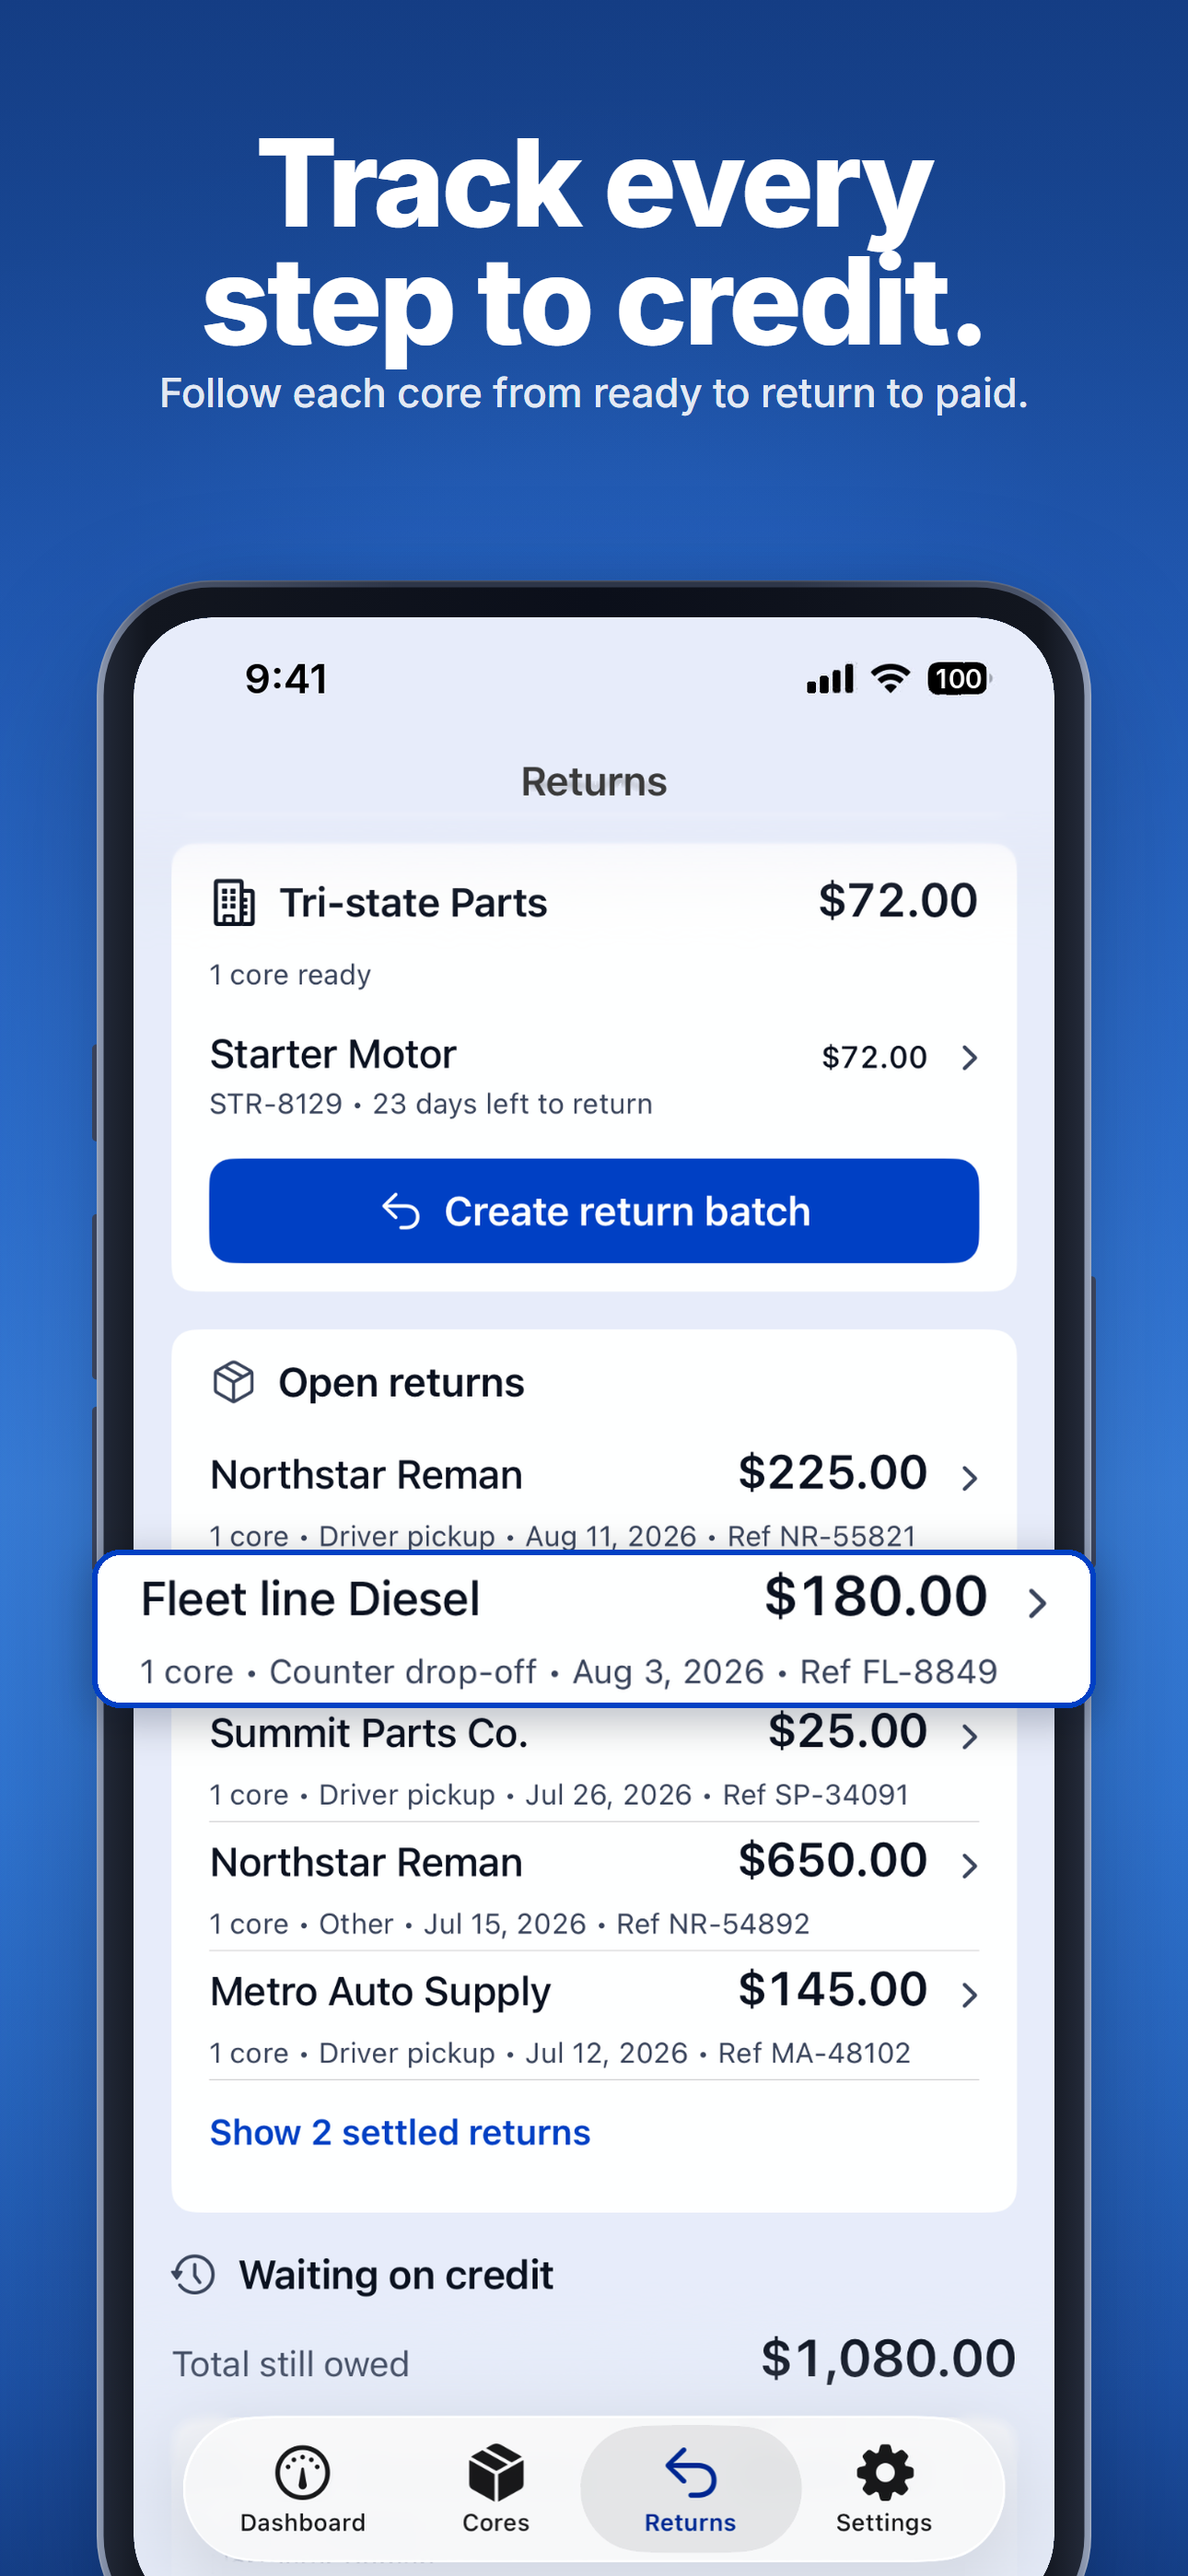
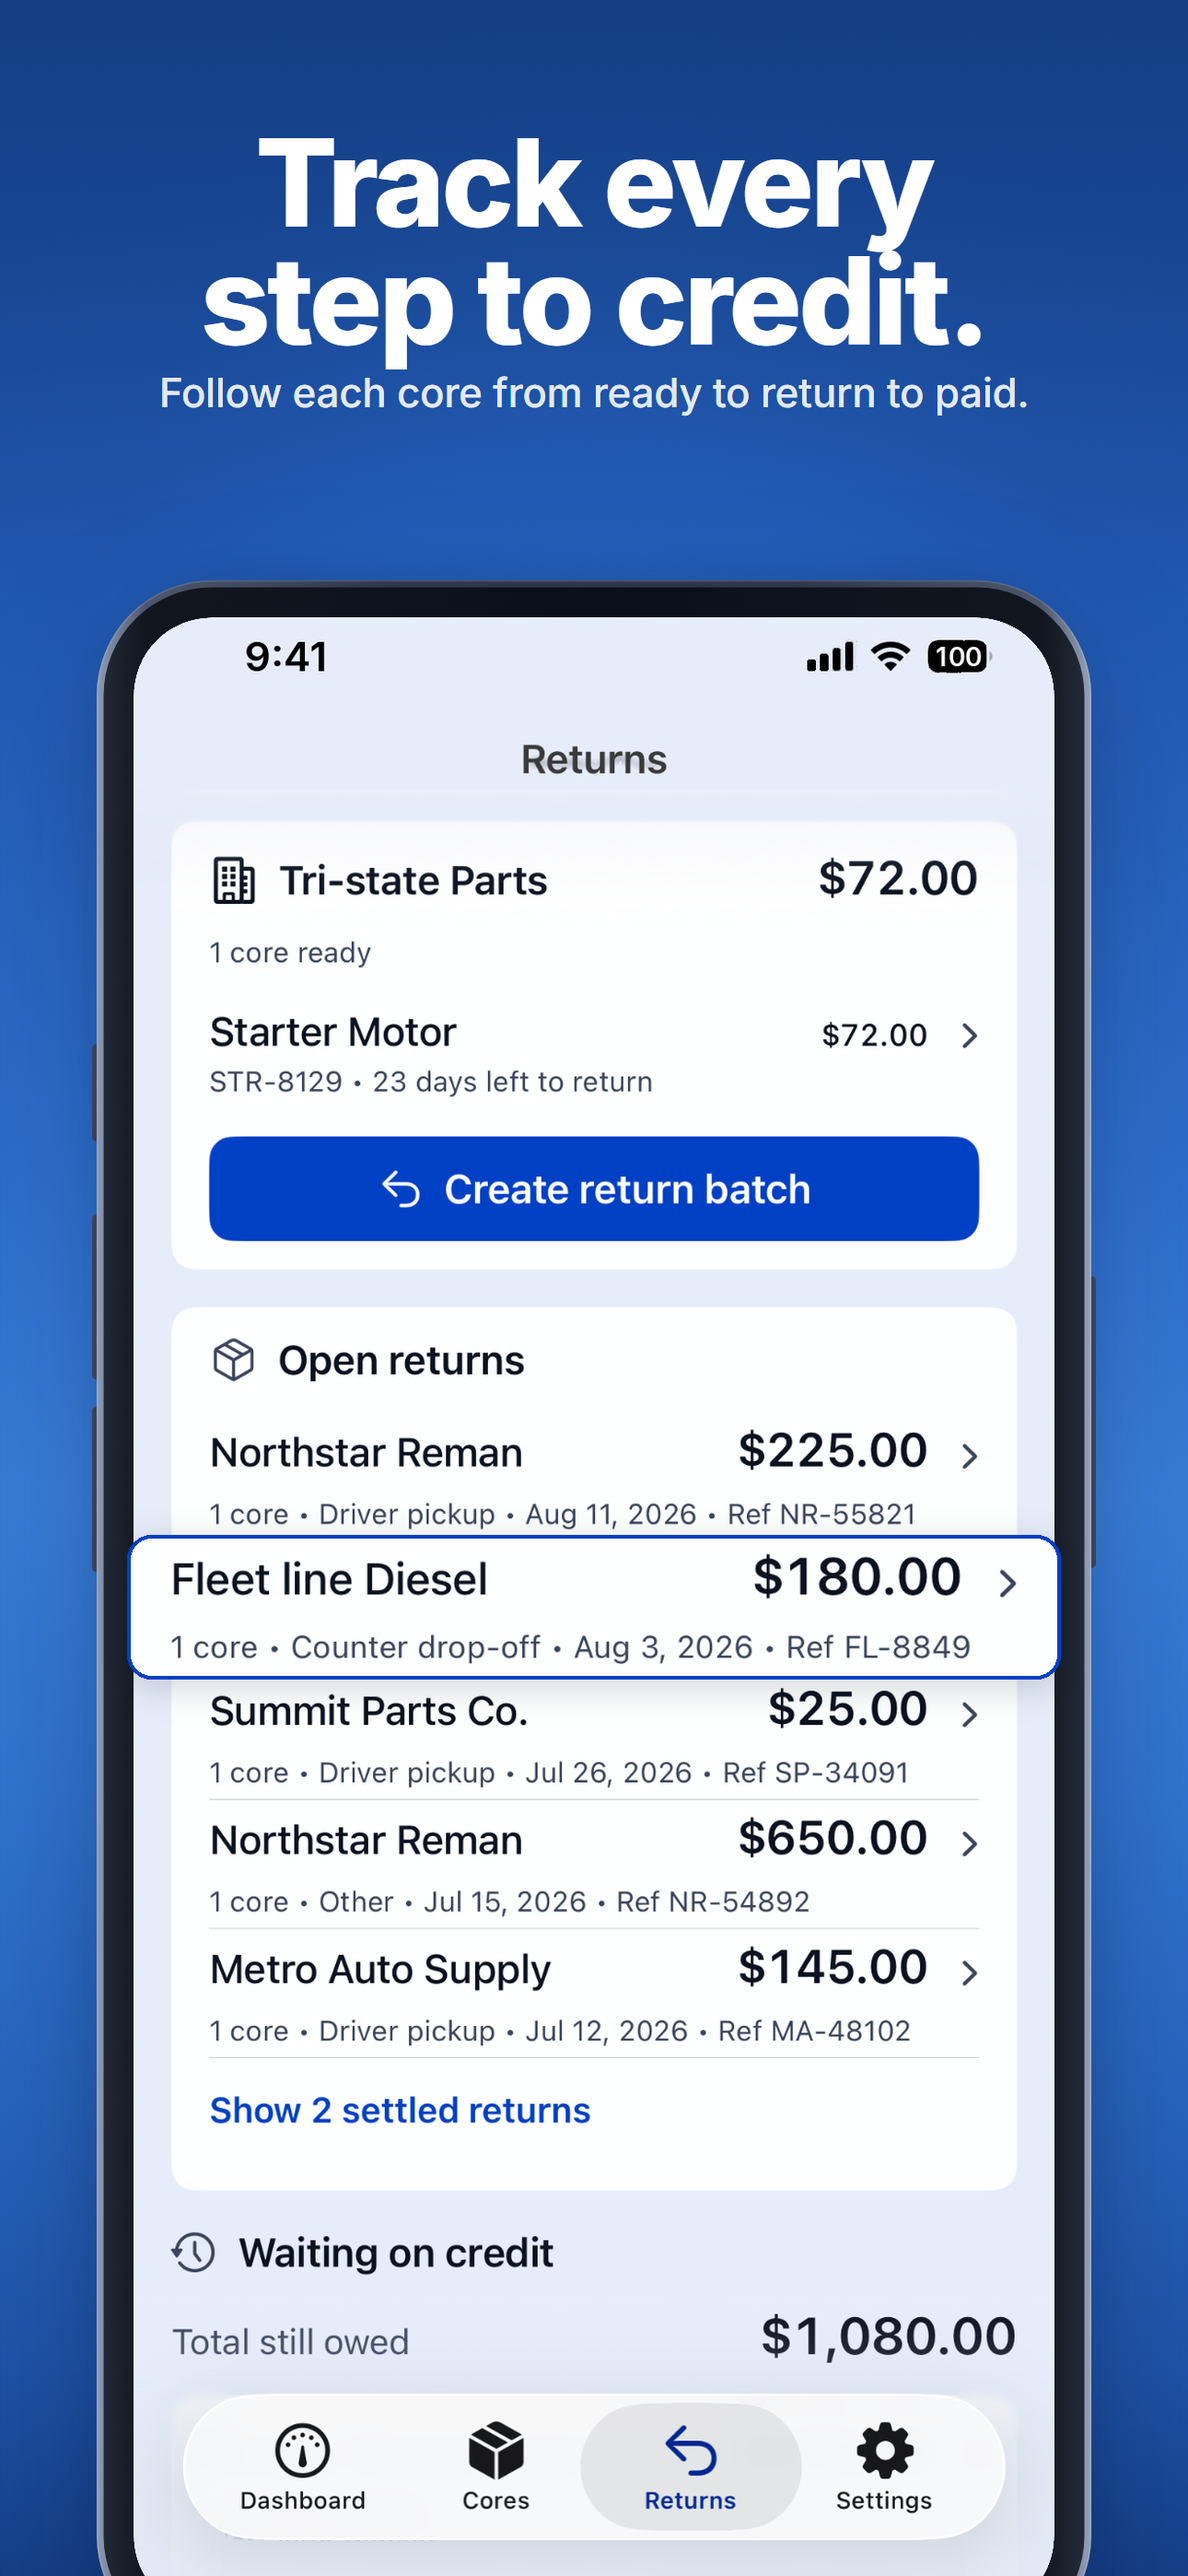
Polish Image 4's callout and lower section
The callout was reading as an oversized annotation. It loses 7 % of its
width, its rule drops from 6 px to 4, its radius from 30 to 26 and its
shadow from 0.30 to 0.18 at a shorter offset -- enough to lift it off the
screen without announcing itself. It still magnifies the same row by the
same crop, ×1.10 against the screen behind it, and now clears the ink of
the rows either side by 7 px and 9 px rather than sitting flush with them.

The lower section was crammed against the canvas edge, the tab bar with
16 px of screen under it. compose can now spend part of the crop a template
takes at the far side on the near side instead; Image 4 spends 24 px of it,
which lifts Waiting on credit and the $1,080.00 total away from the edge and
leaves 40 px of the screen's own background beneath the bar. The 23 capture
rows that go are a single flat colour, so nothing but status-bar margin is
spent, and the status bar still sits well clear of the screen's corners.

Both templates' layers are byte-identical to the composite outside the
screen and the callout's shadow, the capture is unchanged from the last
build, and Image 3 rebuilds byte-for-byte identical.

Claude-Session: https://claude.ai/code/session_01BtS38QkKpVhKQaJHaD4ro7

diff --git a/marketing/appstore/tools/compose.py b/marketing/appstore/tools/compose.py
@@ -48,7 +48,7 @@ def aperture(overlay_png, inside=(1000, 1400)):
             int(xs.max() - xs.min() + 1), int(ys.max() - ys.min() + 1), mask)
 
 
-def compose(background_png, overlay_png, screenshot_png, out_png):
+def compose(background_png, overlay_png, screenshot_png, out_png, shift_up=0):
     bg = Image.open(background_png).convert("RGBA")
     ov = Image.open(overlay_png).convert("RGBA")
     if bg.size != ov.size:
@@ -69,12 +69,19 @@ def compose(background_png, overlay_png, screenshot_png, out_png):
 
     canvas = np.array(bg)
     px = np.array(scaled)
+    # `shift_up` spends part of the crop the template already takes at the far
+    # side on the near side instead, moving the screen's content up inside the
+    # phone. It can never exceed the slack, so the aperture stays covered.
+    slack = scaled_h - height
+    if not 0 <= shift_up <= max(slack, 0):
+        raise ValueError(f"shift_up {shift_up} outside the crop's slack of {slack}")
     take_w = min(scaled_w, canvas.shape[1] - left, visible_w)
-    take_h = min(scaled_h, height)
+    take_h = min(scaled_h - shift_up, height)
 
     sub = canvas[top:top + take_h, left:left + take_w]
     sub_mask = mask[top:top + take_h, left:left + take_w]
-    sub[..., :3] = np.where(sub_mask[..., None], px[:take_h, :take_w], sub[..., :3])
+    sub[..., :3] = np.where(sub_mask[..., None],
+                            px[shift_up:shift_up + take_h, :take_w], sub[..., :3])
 
     out = Image.alpha_composite(Image.fromarray(canvas), ov).convert("RGB")
     out.save(out_png)
@@ -84,6 +91,7 @@ def compose(background_png, overlay_png, screenshot_png, out_png):
         "aperture": {"left": left, "top": top, "height": height,
                      "visible_width": visible_w,
                      "design_width": round(design_w, 2)},
+        "origin": [left, top - shift_up],     # where the capture's (0, 0) lands
         "screenshot": (sw, sh),
         "scale": round(scale, 6),
         "scaled": (scaled_w, scaled_h),
@@ -91,8 +99,11 @@ def compose(background_png, overlay_png, screenshot_png, out_png):
         "aspect_device_screen": round(DEVICE_SCREEN_RATIO, 6),
         "aspect_width_delta_px": round(scaled_w - design_w, 2),
         "driven_by": "width" if visible_w / sw > height / sh else "height",
+        "shift_up_px": shift_up,
+        "cropped_top_px": shift_up,
         "cropped_right_px": scaled_w - take_w,
         "cropped_right_pct": round(100.0 * (scaled_w - take_w) / scaled_w, 2),
-        "cropped_bottom_px": scaled_h - take_h,
-        "cropped_bottom_pct": round(100.0 * (scaled_h - take_h) / scaled_h, 2),
+        "cropped_bottom_px": scaled_h - shift_up - take_h,
+        "cropped_bottom_pct": round(
+            100.0 * (scaled_h - shift_up - take_h) / scaled_h, 2),
     }

diff --git a/marketing/appstore/tools/spotlight.py b/marketing/appstore/tools/spotlight.py
@@ -11,12 +11,12 @@ crop pushes off the canvas.
 from PIL import Image, ImageDraw, ImageFilter
 import numpy as np
 
-RADIUS = 30             # corner radius of the callout, canvas px
-BORDER = 6              # blue rule around it
+RADIUS = 26             # corner radius of the callout, canvas px
+BORDER = 4              # blue rule around it, thin enough to read as a rule
 BORDER_RGB = (0, 64, 196)           # the app's own accent blue, measured
-SHADOW_BLUR = 22
-SHADOW_OFFSET = 12
-SHADOW_ALPHA = 0.30
+SHADOW_BLUR = 18
+SHADOW_OFFSET = 8
+SHADOW_ALPHA = 0.18
 
 
 def _rounded(size, radius, fill, mode="RGBA"):
@@ -26,13 +26,13 @@ def _rounded(size, radius, fill, mode="RGBA"):
     return card
 
 
-def place(canvas_png, capture_png, out_png, source, width, right, aperture_top,
+def place(canvas_png, capture_png, out_png, source, width, right, origin_top,
           scale):
     """Set a callout of `source` (x0, y0, x1, y1 in the capture) on the canvas.
 
     `width` is the callout's full width in canvas pixels and `right` its right
     edge; it is centred on the row's own position on the canvas, which the
-    template's aperture top and the compositing scale fix exactly.
+    canvas row the capture starts on and the compositing scale fix exactly.
     """
     canvas = Image.open(canvas_png).convert("RGBA")
     x0, y0, x1, y1 = source
@@ -49,7 +49,7 @@ def place(canvas_png, capture_png, out_png, source, width, right, aperture_top,
     card.alpha_composite(inner, (BORDER, BORDER))
 
     left = right - width
-    top = int(round(aperture_top + (y0 + y1) / 2.0 * scale)) - height // 2
+    top = int(round(origin_top + (y0 + y1) / 2.0 * scale)) - height // 2
 
     shadow = Image.new("RGBA", canvas.size, (0, 0, 0, 0))
     shadow.paste(Image.new("RGBA", (width, height),

diff --git a/marketing/appstore/tools/build.py b/marketing/appstore/tools/build.py
@@ -47,8 +47,12 @@ GALLERY = [
          ov="CoreCredit_AppStore_04_Refined_Device_Overlay.png",
          shot="Returns_Marketing.png",
          out="CoreCredit_AppStore_04_Track_Every_Step.png",
+         # Spend part of the crop the canvas takes at the phone's bottom on its
+         # top instead, so Waiting on credit and the total sit clear of the
+         # canvas edge. Only status-bar margin goes; nothing is lost.
+         shift_up=24,
          # the second row under Open returns: Fleet line Diesel, $180.00
-         callout=dict(source=(41, 975, 905, 1103), width=1090, right=1190)),
+         callout=dict(source=(41, 975, 905, 1103), width=1014, right=1152)),
 ]
 EXPECTED_CANVAS = (1290, 2796)
 
@@ -83,11 +87,12 @@ def main():
         callout = image.get("callout")
         target = out + ".compose.tmp.png" if callout else out
         entry = report[out] = {"composite": compose.compose(
-            image["bg"], image["ov"], image["shot"], target)}
+            image["bg"], image["ov"], image["shot"], target,
+            shift_up=image.get("shift_up", 0))}
         if callout:
             entry["callout"] = spotlight.place(
                 target, image["shot"], out,
-                aperture_top=entry["composite"]["aperture"]["top"],
+                origin_top=entry["composite"]["origin"][1],
                 scale=entry["composite"]["scale"], **callout)
             os.remove(target)
         if tuple(entry["composite"]["canvas"]) != EXPECTED_CANVAS:

diff --git a/marketing/appstore/README.md b/marketing/appstore/README.md
@@ -84,8 +84,12 @@ falls off the right edge, which is the template's intended device crop.
 **Image 4.** Aperture 145, 670, 1000 px wide and 2126 px tall, the phone standing
 centred with the canvas taking its bottom. Screenshot 946 × 2048 scaled
 ×1.057082 to 1000 × 2165 — again one factor on both axes. Nothing is cropped
-horizontally; 39 px (1.8 %) falls off the bottom, all of it below the tab bar.
+horizontally. Of the 39 px the height is short, 24 go off the top and 15 off the
+bottom: the capture's first 23 rows are a single flat colour, so only status-bar
+margin is spent, and what it buys is *Waiting on credit* and the total sitting
+clear of the canvas edge with the tab bar's own background under it.
+
 The callout takes the second row under *Open returns* — Fleet line Diesel,
-$180.00 — from 41, 975 to 905, 1103 in the capture, enlarges it ×1.2477 (×1.18
-against the screen behind it) and sets it across the device's own width, 100 to
-1190, centred on the row at 1682–1854. It clears the ink of the rows either side.
+$180.00 — from 41, 975 to 905, 1103 in the capture, enlarges it ×1.1644 (×1.10
+against the screen behind it) and sets it at 138–1152, centred on the row at
+1666–1823. It clears the ink of the rows either side by 7 px and 9 px.
